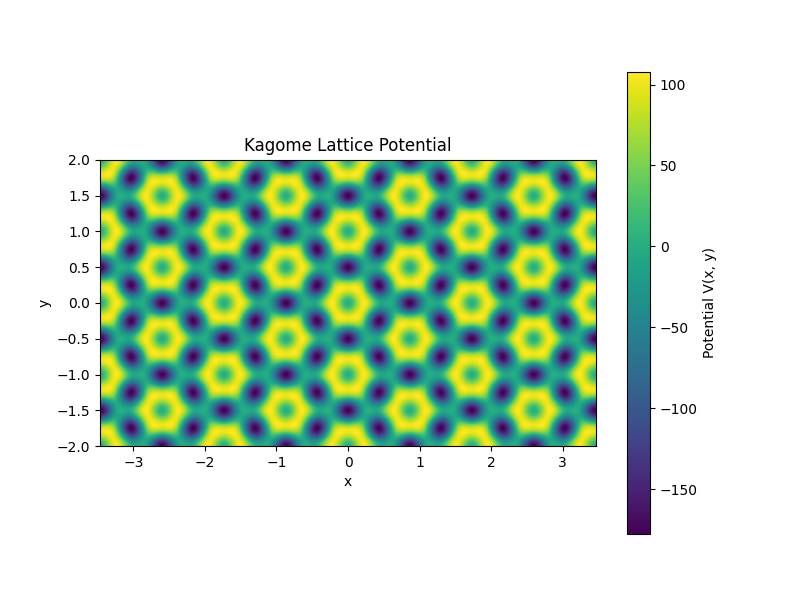
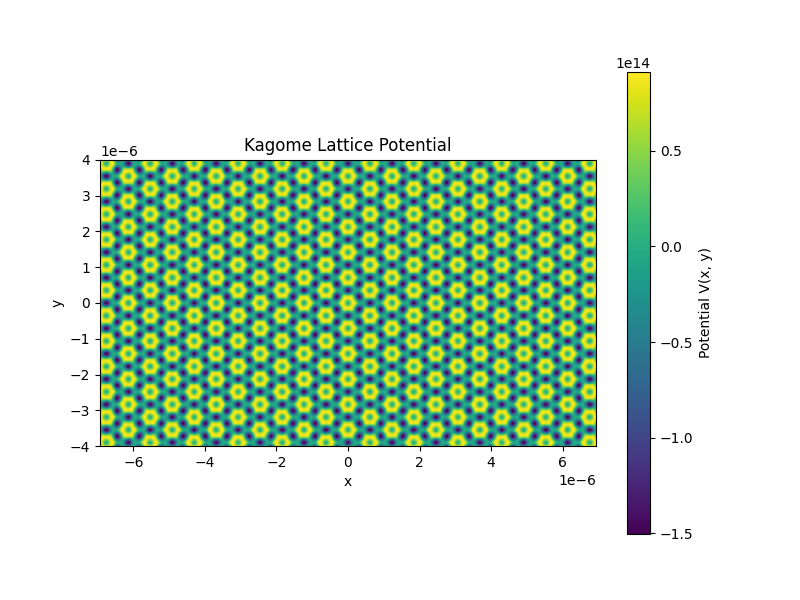
update

diff --git a/ssfft3.py b/ssfft3.py
@@ -17,6 +17,8 @@ if True:
     num_run = 1
     h = 6.626e-34
     hbar = h / 2/np.pi
+    mrb = 1.4192261e-25
+    cst = hbar**2/2/mrb
     lambda532 = 532e-9
     lambda1064 = 1064e-9
     k532 = 2 * np.pi / lambda532
@@ -25,12 +27,12 @@ if True:
     mp = 6.4924249e-26
     N = 1024
     Nx, Ny = N, N
-    xmax, ymax =  2*np.sqrt(3),2 #*1e-6, 2e-6
+    xmax, ymax =  4*np.sqrt(3)*1e-6, 4e-6
     dx = (2 * xmax) / (N - 1)
     dy = (2 * ymax) / (N - 1)
     x = np.linspace(-xmax, xmax, N)
     y = np.linspace(-ymax, ymax, N)
-    dt = 1e-2#e-16
+    dt = 1e-6
     tmax = 100*dt
     NUM = int(tmax / dt) + 1
     save_gif = 1
@@ -52,8 +54,8 @@ FX_sq, FY_sq = np.meshgrid(fx_sq, fy_sq)
 # # --- Calculate Momentum (k-space) Coordinates for Plot ---
 # kx = 2 * np.pi * np.fft.fftshift(fx_sq)
 # ky = 2  * np.pi * np.fft.fftshift(fy_sq)
-V532 = 200
-V1064 = 200
+V532 = 10000 *h/cst
+V1064 = 10000 *h/cst
 # Note: V=200 is a good number, if k = 4 * np.pi / 3
 # Note: V=1e9 is a good number, if k = 4 * np.pi / 3 * 3000
 # Note: V=1e14 is a good number, if k = 4 * np.pi / 3 * 1e6
@@ -61,25 +63,29 @@ V1064 = 200
 
 phi12 = 0
 phi23 = 0
-# P_0 = np.array([0, 0])
-# P_1 = np.array([0.2, -0.2])
-# P_2 = np.array([0.2, 0.2])
-# P_3 = np.array([-0.2, 0.2])
-# P_4 = np.array([-0.2, -0.2])
-# k_path = [P_0, P_1, P_2, P_3, P_4, P_1]
-# k_labels = ["P_0", "P_1", "P_2", "P_3", "P_4", "P_1"]
 
-Gamma = np.array([0, 0])
-K = np.array([2*np.pi/np.sqrt(3), 2*np.pi/3]) #* 1.5 / 1064e-9
-M = np.array([2*np.pi/np.sqrt(3), 0]) #* 1.5 / 1064e-9
-k_path = [Gamma, K, M, Gamma]
-k_labels = ["\Gamma", "K", "M", "\Gamma"]
+if False:
+    P_0 = np.array([0, 0])
+    P_1 = np.array([0.2, -0.2])
+    P_2 = np.array([0.2, 0.2])
+    P_3 = np.array([-0.2, 0.2])
+    P_4 = np.array([-0.2, -0.2])
+    k_path = [P_0, P_1, P_2, P_3, P_4, P_1]
+    k_labels = ["P_0", "P_1", "P_2", "P_3", "P_4", "P_1"]
+
+if True:
+    Gamma = np.array([0, 0])
+    K = np.array([2*np.pi/np.sqrt(3), 2*np.pi/3]) * 1.5 / 1064e-9
+    M = np.array([2*np.pi/np.sqrt(3), 0]) * 1.5 / 1064e-9
+    k_path = [Gamma, K, M, Gamma]
+    k_labels = ["\Gamma", "K", "M", "\Gamma"]
+
 num_interpolation = 6
 
 V = calculate_kagome_potential(
     X, 
     Y, 
-    4 * np.pi / 3 , 
+    k1064, 
     V532, 
     V1064, 
     phi12, 
@@ -103,7 +109,7 @@ bands, evectors, g_vectors, k_points = calculate_band_structure(
 )
 
 
-def plot():
+if False:
     plot_eigenstate(
         evectors=evectors, 
         k_points=k_points,
@@ -158,64 +164,75 @@ for band_index in range(3):
 
 
 
-u = eigenstate_wavefunction = calulate_eigenstate(
-    evectors,
-    k_points,
-    g_vectors, 
-    0, 
-    0, 
-    resolution=N, 
-    xmax = xmax,
-    ymax = ymax)
-
-u /= np.sqrt(np.sum(np.sum(np.conj(u) * u))*dx*dy) 
-
 
 # Open a writer for the GIF file
 gif_path = f"video{num_run}.gif"
 
-dt = 1e-2#e-16
-tmax = 200*dt
+dt = 1e-4#e-16
+tmax = 100*dt
 NUM = int(tmax / dt) + 1
 
-potential_2D = V 
 
-X, Y = np.meshgrid(x, y)
-w0 = 0.1*xmax  # Beam waist radius (controls the spot size). Adjust this value as needed.
-u = 1 / np.sqrt(np.pi * w0**2)* np.exp(-(((X)**2 + Y**2) / 2 / w0**2))#.astype(np.complex128)
+potential_2D = V
 
-# print(np.sum(np.sum(np.conj(u)*u))*dx*dy) # normalization check, should add up equal to 1
+# Intial Wavefunction
 
-eigenstate_wavefunction = calulate_eigenstate(
-    evectors,
-    k_points,
-    g_vectors, 
-    0, 
-    0, 
-    resolution=N, 
-    xmax = xmax,
-    ymax = ymax)
+if False:
+    u = eigenstate_wavefunction = calulate_eigenstate(
+        evectors,
+        k_points,
+        g_vectors, 
+        0, 
+        0, 
+        resolution=N, 
+        xmax = xmax,
+        ymax = ymax)
 
-u = u * eigenstate_wavefunction
+    u /= np.sqrt(np.sum(np.sum(np.conj(u) * u))*dx*dy) 
+    
+    # print(np.sum(np.sum(np.conj(u)*u))*dx*dy) # normalization check, should add up equal to 1
 
-u /= np.sqrt(np.sum(np.sum(np.conj(u) * u))*dx*dy) 
 
-# print(np.sum(np.sum(np.conj(u)*u))*dx*dy) # normalization check, should add up equal to 1
+if True:
+    X, Y = np.meshgrid(x, y)
+    w0 = 0.1*xmax  # Beam waist radius (controls the spot size). Adjust this value as needed.
+    u = 1 / np.sqrt(np.pi * w0**2)* np.exp(-(((X)**2 + Y**2) / 2 / w0**2))#.astype(np.complex128)
 
-# u_spreading = u
-# potential_2D_spreading = potential_2D
+    # print(np.sum(np.sum(np.conj(u)*u))*dx*dy) # normalization check, should add up equal to 1
+
+    eigenstate_wavefunction = calulate_eigenstate(
+        evectors,
+        k_points,
+        g_vectors, 
+        0, 
+        0, 
+        resolution=N, 
+        xmax = xmax,
+        ymax = ymax)
+
+    u = u * eigenstate_wavefunction
+
+    u /= np.sqrt(np.sum(np.sum(np.conj(u) * u))*dx*dy) 
+
+    # print(np.sum(np.sum(np.conj(u)*u))*dx*dy) # normalization check, should add up equal to 1
+
+if False:
+    u_spreading = u
+    potential_2D_spreading = potential_2D
+
 # Linear propagation factor for one step dt
 
-FACTOR = -4 * np.pi**2 * dt / 2 #/50000000
+FACTOR = - dt / 2 * k1064**2/2*mrb/10
 LINEAR_FACTOR = np.exp(1j * FACTOR * (FY_sq + FX_sq))
 
-i = np.arange(0, NUM)
-freqs = np.linspace(0.1, 0.1, 1)   # 带宽从 0.02 到 0.04
-amps = np.random.uniform(0.2, 1.0, len(freqs))
-signal = np.sum([A * np.sin(f * i) for A, f in zip(amps, freqs)], axis=0)
-# signal = np.fft.fft(signal)
-signal /= np.max(signal)/np.pi*10
-plt.plot(signal)
+if True:
+    i = np.arange(0, NUM)
+    freqs = np.linspace(0.1, 0.1, 1)   # 带宽从 0.02 到 0.04
+    amps = np.random.uniform(0.2, 1.0, len(freqs))
+    signal = np.sum([A * np.sin(f * i) for A, f in zip(amps, freqs)], axis=0)
+    # signal = np.fft.fft(signal)
+    signal /= np.max(signal)/np.pi*10
+    plt.plot(signal)
 
 overlap_map = np.zeros((3, len(k_points)))
 for band_index in range(3):
@@ -224,7 +241,7 @@ for band_index in range(3):
         overlap = abs(np.sum(np.sum(np.conj(u)*eigenstate_wavefunction))*dx*dy)# eigenstate_projection(u, eigenstate_wavefunction, N, xmax,ymax)
         overlap_map[band_index, k_index] = overlap  
 
-if True:
+if False:
     plt.figure(figsize=(8,4))
     # for band_index in range(overlap_map.shape[0]):
         # plt.plot(np.arange(len(k_points)), overlap_map[band_index], '-o', label=f'Band {band_index}')
@@ -257,11 +274,11 @@ with imageio.get_writer(gif_path, mode='I', duration=0.2, loop=0) as writer:
         potential_2D = calculate_kagome_potential(
                     X, 
                     Y, 
-                    4 * np.pi / 3, 
+                    k1064, 
                     V532, 
                     V1064, #+ 0.8 * np.sin(signal[i]), 
-                    - np.pi * np.sin(signal[i]), 
-                    np.pi * np.sin(signal[i]), 
+                    0, #- np.pi * np.sin(signal[i]), 
+                    0, #np.pi * np.sin(signal[i]), 
                     plot=0
                     )
         
@@ -335,7 +352,7 @@ with imageio.get_writer(gif_path, mode='I', duration=0.2, loop=0) as writer:
                 
                 # 1) Plot Potential
                 ax1 = fig.add_subplot(1, 3, 1)
-                im1 = ax1.imshow(potential_2D, extent=[x[0], x[-1], y[0], y[-1]], cmap='viridis', origin='lower')
+                im1 = ax1.imshow(potential_2D/(h/cst), extent=[x[0], x[-1], y[0], y[-1]], cmap='viridis', origin='lower')
                 # im1 = ax1.imshow(V[:, :, i].T, extent=[x[0], x[-1], y[0], y[-1]], cmap='jet', origin='lower')
                 cbar1 = fig.colorbar(im1, ax=ax1)
                 cbar1.set_label('Potential', fontweight='bold', fontsize=14)
@@ -346,7 +363,7 @@ with imageio.get_writer(gif_path, mode='I', duration=0.2, loop=0) as writer:
                 ax2 = fig.add_subplot(1, 3, 2)
                 im2 = ax2.imshow(np.abs(u), extent=[x[0], x[-1], y[0], y[-1]], cmap='viridis', origin='lower')
                 ax2.axis('off')
-                # im2.set_clim(0.0, 0.8)
+                im2.set_clim(0.0, 0.6e6)
                 cbar2 = fig.colorbar(im2, ax=ax2)
                 cbar2.set_label('Intensity |u|', fontweight='bold', fontsize=14)
                 
@@ -356,7 +373,7 @@ with imageio.get_writer(gif_path, mode='I', duration=0.2, loop=0) as writer:
                 
                 # log_norm = LogNorm(vmin=1e-5, vmax=uf_shifted_abs.max())
 
-                im3 = ax3.imshow(uf_shifted_abs[int(0.4375*N):int(0.5625*N),int(0.4375*N):int(0.5625*N)],
+                im3 = ax3.imshow(uf_shifted_abs[int(0.375*N):int(0.625*N),int(0.375*N):int(0.625*N)],
                                 # extent=[fx_sq[0], fx_sq[-1], fy_sq[0], fy_sq[-1]],
                                 extent=[fx_sq[-1]*0.25, fx_sq[-1]*0.75, fy_sq[-1]*0.25, fy_sq[-1]*0.75],
                                 cmap='viridis',

diff --git a/calculate_band_structure.py b/calculate_band_structure.py
@@ -2,20 +2,20 @@ import numpy as np
 import matplotlib.pyplot as plt
 
 def calculate_band_structure(V532, V1064, phi12, phi23, k_path, k_labels, num_interpolation=40, num_bands=10, G_cutoff=3, plot=0):
-    lambda0=3/2
-    k = 2 * np.pi / lambda0
+    # lambda0=3/2
+    # k = 2 * np.pi / lambda0
     # t = a / (3 / 2)
     # k = 4 * np.pi / 3 # * 3000
     # if a =1 then k = 2pi/lambda = 2pi / 1.5, lambda=1.5a; 
     # if lambda =1 then a = 2/3, 1/a = 3/2
     # if lambda =1064e-9 then a = 2/3 lambda =2/3*1064e-9, 
-    # h = 6.626e-34
-    # hbar = 6.626e-34 / 2/np.pi
-    # mrb = 1.4192261e-25
-    # cst = hbar**2/2/mrb
-    # k = 2 * np.pi / 1064e-9
-    b1 = np.array([2 * np.pi / np.sqrt(3), 2 * np.pi]) #* 1.5 / 1064e-9
-    b2 = np.array([2 * np.pi / np.sqrt(3), -2 * np.pi])  #* 1.5 / 1064e-9
+    h = 6.626e-34
+    hbar = 6.626e-34 / 2/np.pi
+    mrb = 1.4192261e-25
+    cst = hbar**2/2/mrb
+    k = 2 * np.pi / 1064e-9
+    b1 = np.array([2 * np.pi / np.sqrt(3), 2 * np.pi]) * 1.5 / 1064e-9
+    b2 = np.array([2 * np.pi / np.sqrt(3), -2 * np.pi])  * 1.5 / 1064e-9
     # amp of b 1/a
     g_vectors = []
     g_indices = []
@@ -39,7 +39,7 @@ def calculate_band_structure(V532, V1064, phi12, phi23, k_path, k_labels, num_in
     K2_532 = k * np.array([np.sqrt(3), 3]) #/ (np.sqrt(3))
     K3_532 = k * np.array([2 * np.sqrt(3), 0]) #/ (np.sqrt(3))
 
-    K1_1064 = k * np.array([-np.sqrt(3)/2, 3/2]) # (np.sqrt(3))
+    K1_1064 = k * np.array([-np.sqrt(3)/2, 3/2]) #/ (np.sqrt(3))
     K2_1064 = k * np.array([np.sqrt(3)/2, 3/2]) #/ (np.sqrt(3))
     K3_1064 = k * np.array([np.sqrt(3), 0]) #/ (np.sqrt(3))
     
@@ -76,7 +76,7 @@ def calculate_band_structure(V532, V1064, phi12, phi23, k_path, k_labels, num_in
                     V_G_diff += -V532 * (2/9) * 0.5
                 if np.allclose(G_diff, K3_532) or np.allclose(G_diff, -K3_532):
                     V_G_diff += -V532 * (2/9) * 0.5
-                    
+ 
                 # Potential from 1064 beam
                 # be careful about phase
                 if np.allclose(G_diff, K1_1064):
@@ -133,7 +133,7 @@ def calculate_band_structure(V532, V1064, phi12, phi23, k_path, k_labels, num_in
             distances[i] = distances[i-1] + np.linalg.norm(k_points[i] - k_points[i-1])
 
         for i in range(num_bands):
-            plt.plot(distances, bands[i], '-')
+            plt.plot(distances, (bands[i]-np.min(np.min(bands)))*cst/h, '-')
             # plt.plot(bands[i],'-')
         plt.xticks(k_node_positions, [f'${label}$' for label in k_labels])
         for pos in k_node_positions:
